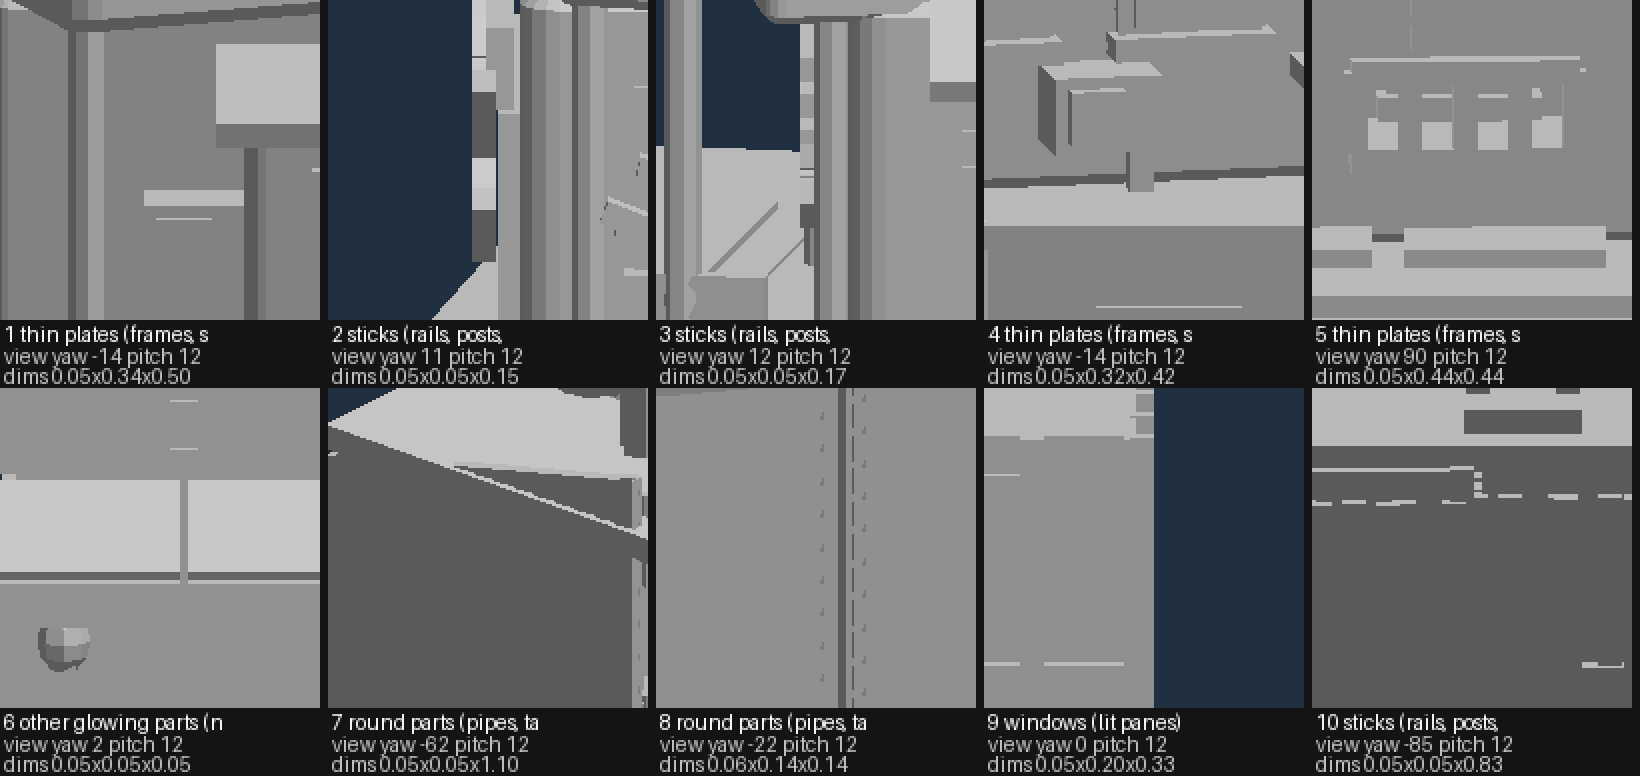
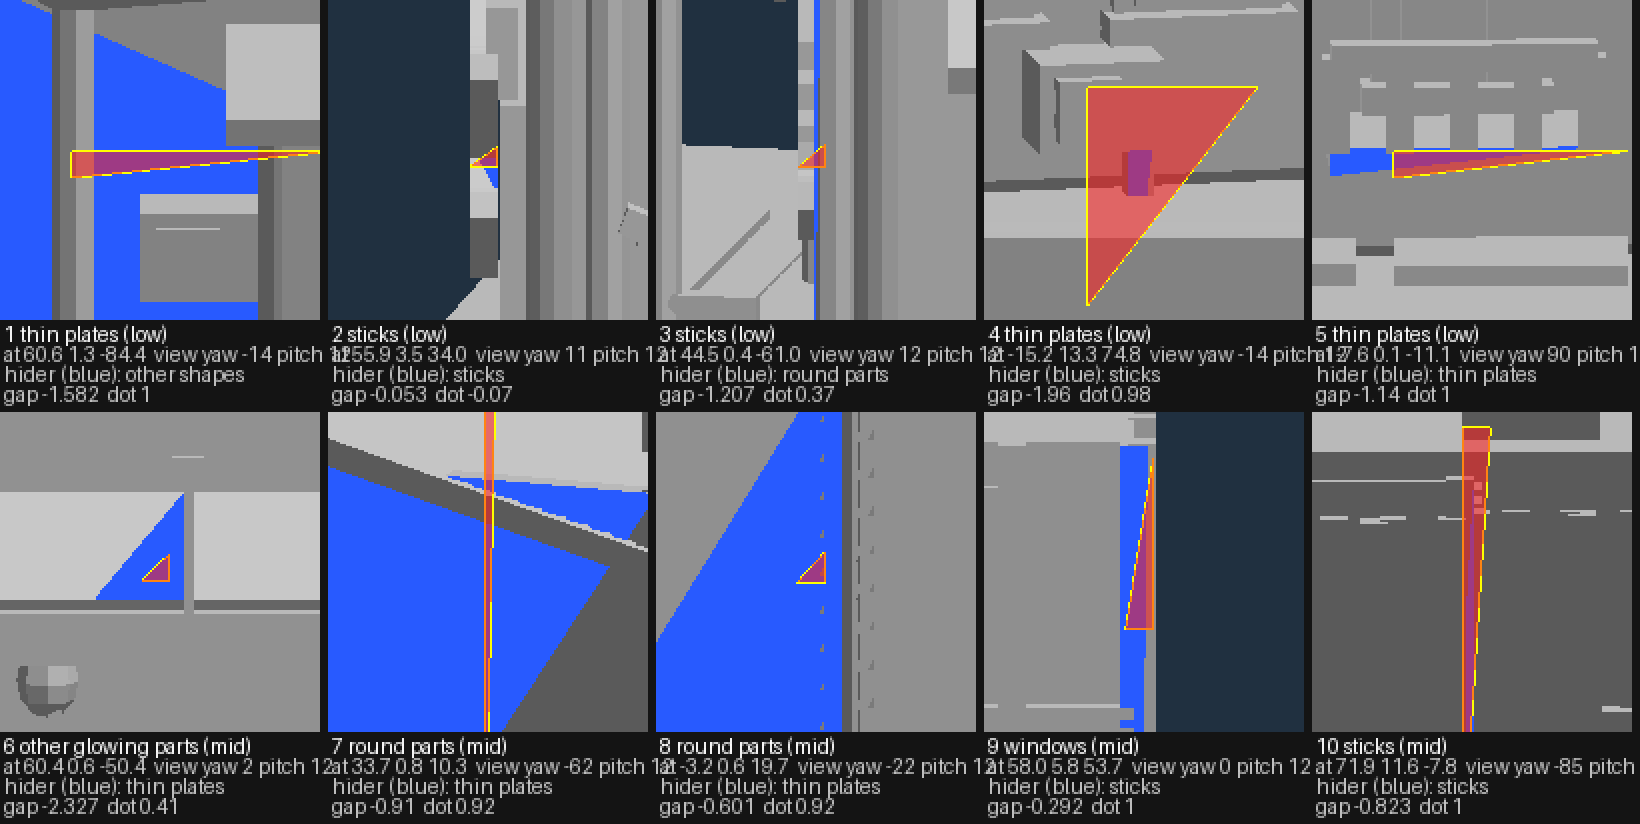
Round 7 item 2a: report, labeled crops, round 6 probe reconciled

diff --git a/tools/perf/geo20d.js b/tools/perf/geo20d.js
@@ -77,28 +77,31 @@
         const hn = Math.hypot(n.x, n.z), yaw = Math.atan2(n.x, n.z), pit = Math.min(82, Math.max(12, Math.atan2(n.y, hn)*180/Math.PI))*Math.PI/180;
         const dir = new THREE.Vector3(Math.sin(yaw)*Math.cos(pit), Math.sin(pit), Math.cos(yaw)*Math.cos(pit));
         const R = (window.__GP || {}).exR || .4, SZ = 160, c3 = new THREE.OrthographicCamera(-R, R, R, -R, .1, 1000); c3.position.copy(cen).addScaledVector(dir, 100); c3.lookAt(cen); c3.updateMatrixWorld();
+        // what is in front of it: the id at the middle of the same view (the id mesh, a small window)
+        const r3 = new THREE.WebGLRenderTarget(9, 9, { minFilter: THREE.NearestFilter, magFilter: THREE.NearestFilter, format: THREE.RGBAFormat }), c4 = new THREE.OrthographicCamera(-.004, .004, .004, -.004, .1, 1000);
+        c4.position.copy(c3.position); c4.quaternion.copy(c3.quaternion); c4.updateMatrixWorld(); renderer.setRenderTarget(r3); renderer.setClearColor(0, 0); renderer.clear(); renderer.render(scn, c4);
+        const ib = new Uint8Array(9*9*4); renderer.readRenderTargetPixels(r3, 0, 0, 9, 9, ib); renderer.setRenderTarget(null); r3.dispose();
+        const o4 = (4*9 + 4)*4, hid = (ib[o4] | (ib[o4 + 1] << 8) | (ib[o4 + 2] << 16)) - 1; let hider = null; var hidIdx = hid;
+        if (hid >= 0 && hid < T){ const ha = new THREE.Vector3().fromArray(pos, hid*9), hb = new THREE.Vector3().fromArray(pos, hid*9 + 3), hc = new THREE.Vector3().fromArray(pos, hid*9 + 6), hn = new THREE.Vector3().crossVectors(hb.clone().sub(ha), hc.clone().sub(ha)).normalize();
+          hider = { cls: classOf(pcs[tag[tris[hid][0]]]), parallelDot: +hn.dot(n).toFixed(2), gapAlongView: +(cen.clone().sub(ha).dot(hn)/Math.max(1e-6, Math.abs(hn.dot(dir)))*Math.sign(hn.dot(dir))).toFixed(3), inH: inH[hid] }; }
+        window.__HID = window.__HID || {}; { const hk = hider ? (hider.cls.split(' (')[0] + (Math.abs(hider.parallelDot) > .99 ? (hider.parallelDot > 0 ? ', parallel same way' : ', parallel opposite') : ', not parallel')) : 'nothing found'; window.__HID[hk] = (window.__HID[hk] || 0) + 1; }
+        window.__HIDX = window.__HIDX || []; if (window.__HIDX.length < 40) window.__HIDX.push(hider);
         let pb = new Uint8Array(SZ*SZ*4);
         if (!(window.__GP || {}).noCrop){
         // grey shading by face normal, the chosen triangle red
         const c2 = new Uint8Array(T*9); for (let u = 0; u < T; u++){ const p0 = new THREE.Vector3().fromArray(pos, u*9), p1 = new THREE.Vector3().fromArray(pos, u*9 + 3), p2 = new THREE.Vector3().fromArray(pos, u*9 + 6);
           const nn = new THREE.Vector3().crossVectors(p1.sub(p0), p2.sub(p0)).normalize(), sh = 90 + 120*Math.max(0, nn.dot(new THREE.Vector3(.4, .8, .45).normalize()));
-          for (let k = 0; k < 3; k++){ c2[u*9 + k*3] = u === t ? 255 : sh; c2[u*9 + k*3 + 1] = u === t ? 0 : sh; c2[u*9 + k*3 + 2] = u === t ? 0 : sh; } }
+          const isH = u === hidIdx; for (let k = 0; k < 3; k++){ c2[u*9 + k*3] = isH ? 40 : sh; c2[u*9 + k*3 + 1] = isH ? 90 : sh; c2[u*9 + k*3 + 2] = isH ? 255 : sh; } }
         const g2 = new THREE.BufferGeometry(); g2.setAttribute('position', new THREE.BufferAttribute(pos, 3)); g2.setAttribute('color', new THREE.BufferAttribute(c2, 3, true));
         const m2 = new THREE.Mesh(g2, mat); m2.frustumCulled = false; const s2 = new THREE.Scene(); s2.add(m2);
         // (the triangle's own face is front-facing from here: so what covers it is in front of it, in grey)
         const r2 = new THREE.WebGLRenderTarget(SZ, SZ); renderer.setRenderTarget(r2); renderer.setClearColor(0x203040, 1); renderer.clear(); renderer.render(s2, c3);
+          { const og = new THREE.BufferGeometry(); og.setAttribute('position', new THREE.BufferAttribute(pos.slice(t*9, t*9 + 9), 3));
+            const om = new THREE.MeshBasicMaterial({ color: 0xff2020, depthTest: false, transparent: true, opacity: .55, side: THREE.DoubleSide }), lm = new THREE.LineLoop(og, new THREE.LineBasicMaterial({ color: 0xffff00, depthTest: false }));
+            const so = new THREE.Scene(); const mo = new THREE.Mesh(og, om); mo.frustumCulled = false; lm.frustumCulled = false; so.add(mo); so.add(lm); renderer.autoClear = false; renderer.render(so, c3); renderer.autoClear = true; og.dispose(); }
         renderer.readRenderTargetPixels(r2, 0, 0, SZ, SZ, pb); renderer.setRenderTarget(null); r2.dispose(); g2.dispose();
         }
         let red = 0; for (let i = 0; i < pb.length; i += 4) if (pb[i] > 200 && pb[i + 1] < 40) red++;
-        // what is in front of it: the id at the middle of the same view (the id mesh, a small window)
-        const r3 = new THREE.WebGLRenderTarget(9, 9, { minFilter: THREE.NearestFilter, magFilter: THREE.NearestFilter, format: THREE.RGBAFormat }), c4 = new THREE.OrthographicCamera(-.004, .004, .004, -.004, .1, 1000);
-        c4.position.copy(c3.position); c4.quaternion.copy(c3.quaternion); c4.updateMatrixWorld(); renderer.setRenderTarget(r3); renderer.setClearColor(0, 0); renderer.clear(); renderer.render(scn, c4);
-        const ib = new Uint8Array(9*9*4); renderer.readRenderTargetPixels(r3, 0, 0, 9, 9, ib); renderer.setRenderTarget(null); r3.dispose();
-        const o4 = (4*9 + 4)*4, hid = (ib[o4] | (ib[o4 + 1] << 8) | (ib[o4 + 2] << 16)) - 1; let hider = null;
-        if (hid >= 0 && hid < T){ const ha = new THREE.Vector3().fromArray(pos, hid*9), hb = new THREE.Vector3().fromArray(pos, hid*9 + 3), hc = new THREE.Vector3().fromArray(pos, hid*9 + 6), hn = new THREE.Vector3().crossVectors(hb.clone().sub(ha), hc.clone().sub(ha)).normalize();
-          hider = { cls: classOf(pcs[tag[tris[hid][0]]]), parallelDot: +hn.dot(n).toFixed(2), gapAlongView: +(cen.clone().sub(ha).dot(hn)/Math.max(1e-6, Math.abs(hn.dot(dir)))*Math.sign(hn.dot(dir))).toFixed(3), inH: inH[hid] }; }
-        window.__HID = window.__HID || {}; { const hk = hider ? (hider.cls.split(' (')[0] + (Math.abs(hider.parallelDot) > .99 ? (hider.parallelDot > 0 ? ', parallel same way' : ', parallel opposite') : ', not parallel')) : 'nothing found'; window.__HID[hk] = (window.__HID[hk] || 0) + 1; }
-        window.__HIDX = window.__HIDX || []; if (window.__HIDX.length < 40) window.__HIDX.push(hider);
         window.__EX.push({ hider: window.__HIDX[window.__HIDX.length - 1], zone: c.sections[0].zone, cls: classOf(tg), shape: tg && tg[2], dims: tg && tg[3].map(v => +v.toFixed(3)), glow: tg && tg[4], normal: n.toArray().map(v => +v.toFixed(2)), at: cen.toArray().map(v => +v.toFixed(2)), area: +(new THREE.Triangle(a, b, d).getArea()).toFixed(5), redPixelsInBestView: red, yawDeg: +(yaw*180/Math.PI).toFixed(0), pitchDeg: +(pit*180/Math.PI).toFixed(0), px: (window.__GP || {}).noCrop ? null : Array.from(pb) });
       } }
     scn.remove(mesh); ig.dispose(); renderer.setRenderTarget(null);

diff --git a/tools/perf/visprobe.py b/tools/perf/visprobe.py
@@ -57,6 +57,9 @@ JS = r"""async ([zoomV, R, nyaw, pitches, at]) => {
   out.seg = r; out.neverBig = never.length;
   const cls = {}; for (const id of never){ const [seg, area, , ny, nx, nz, cy] = info[id]; const dir = Math.abs(ny) > .9 ? (ny > 0 ? 'up' : 'down') : 'side'; const k = 'AHS'[seg] + ' ' + dir; cls[k] = (cls[k] || 0) + 1; }
   out.cls = cls;
+  // what the triangles in the disc are, by height and facing: street level (paving, curbs) is flat and low; buildings are above it
+  const pop = { 'ground level, facing up (y < .6)': 0, 'low (y < 2), other facing': 0, 'above 2 units, facing up': 0, 'above 2 units, sideways or down': 0 }; for (let id = 0; id < info.length; id++){ const cy = info[id][6], up = info[id][3] > .7; const k = cy < .6 && up ? 'ground level, facing up (y < .6)' : cy < 2 ? 'low (y < 2), other facing' : up ? 'above 2 units, facing up' : 'above 2 units, sideways or down'; pop[k]++; }
+  out.population = pop; out.neverBigByPopulation = {}; for (const id of never){ const cy = info[id][6], up = info[id][3] > .7; const k = cy < .6 && up ? 'ground level, facing up (y < .6)' : cy < 2 ? 'low (y < 2), other facing' : up ? 'above 2 units, facing up' : 'above 2 units, sideways or down'; out.neverBigByPopulation[k] = (out.neverBigByPopulation[k] || 0) + 1; }
   return out;
 }"""
 if __name__ == '__main__':

diff --git a/tools/perf/OVERNIGHT2.md b/tools/perf/OVERNIGHT2.md
@@ -1,0 +1,26 @@
+# Overnight report 2 (round 7)
+
+(Written as the work goes; the table, decisions, owner's list and measurement script are at the end of the run.)
+
+## Details by item
+
+**1. Copy the cache by drawing: done (commit "Round 7 item 1").** The default now draws the copy as a full-screen pass; the blit is behind the overlay test "copy the cache by blitting (not drawing)" and `window.__COPY_BLIT = true`.
+Check: standard script city 25, megas 15, dense 13 captures and the cache steps on the city (70): 0 differences against b6d34e5.
+
+**2a. "Never visible": the owner's probe is right. Done (measurement only).**
+- Ran geo20b.js exactly as given (tools/perf/geo20b.js, loaded by tools/perf/one.py on the current tree, max city, hour 22, zoom 30): 274,250 triangles, 220,872 drawn today, 166,173 visible from some view,
+  54,730 drawn but never seen (24.8%; 10 to 38% per plot): the same numbers as yours to the triangle.
+- Is it converged or a sampling artifact? On 7 of the 20 plots: your settings 25.2% never seen; 3 times the views and twice the resolution (72 turns x 12 tilts, pixel .006) 22.1%. So 3% of the drawn triangles are seen
+  only in the denser sweep (a removal rule must stay safe against that), and about 22% are hidden from every view tried.
+- Is it depth ties (a face coplanar with another that wins the draw order)? No: 685 of 20,798 never-seen triangles (3.3%, mostly sticks) have a drawn same-facing triangle in the same plane holding their middle. Those must never be removed
+  (whether a tie face shows depends on draw order, and the probe's order is not the game's).
+- Is it real occlusion? 395 of 400 sampled never-seen triangles have the triangle that covers them at least .1 units in front of them (only 5 within .1). What covers them: other shapes 38% (the rounded boxes and custom shapes),
+  thin plates 18%, main structure 13%, sticks 16%, glowing parts 6%, windows 5%; in 38% of the cases the covering face is parallel to the hidden one, in the rest at an angle (inside corners, behind posts).
+  So these are faces behind other geometry of the same plot (interiors, the backs of fittings, the far sides of things), which touching-face rules like round 6's flat-face rule can't see.
+- Ten examples with where they are and what hides them: tools/perf/overnight2/item2a_examples.png (each crop: the plot in grey from the allowed view that faces the target best, the target triangle drawn on top in red with a yellow outline,
+  the triangle in front of it in blue; label: class, zone, world position, view, the hider's class, its gap and how parallel). All ten are kept by the current build (the flat-face rule never shipped).
+- Why round 6's number was 5% (visprobe.py, 36 views at zoom 30 around a mid-city point, about 6,800 triangles): it measured another population with a coarser question. It was run on the `city` test scene; on the max city, the same
+  probe, same default camera, radius 4, zoom 30, gives 16,642 triangles, of which in A 320 never seen (9%, with 1,066 too small to judge at that pixel size) and in S 1,561 (18%, with 1,686 too small). The small ones are
+  a fifth to a third of the triangles at that zoom and are excluded from "never", and its views were 36 at one offset. Even so the max city shows 9 to 18%. The first number said "few percent" because the scene and the disc were mostly street furniture and low plots.
+  Re-run on the owner's plots (visprobe `--at`) it also gives far more than 5%. A denser view set and finer pixels lower the share (25 to 22%), they never made it small.
+- Merge numbers in the owner's probe (the `merge` part) were not used: the normal attribute layout has changed (signed bytes then); the visibility counts don't depend on it.
